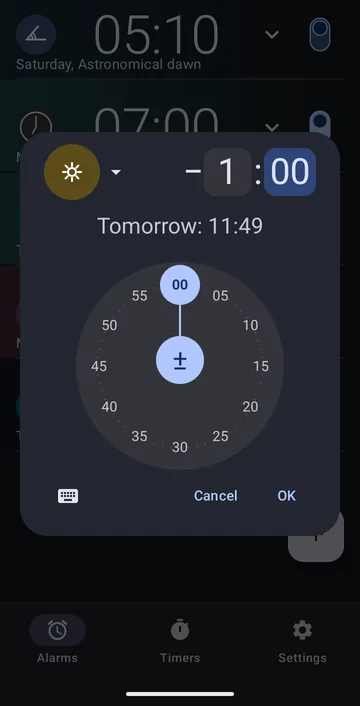
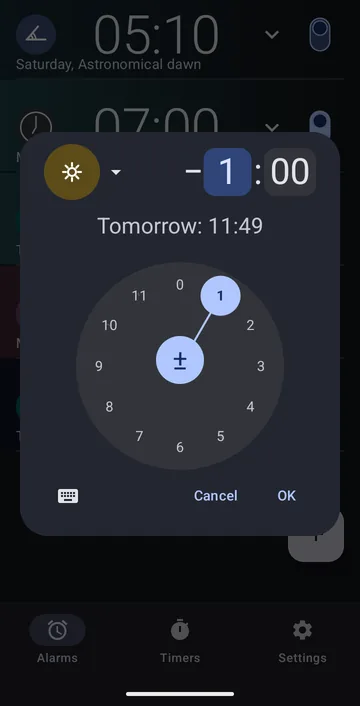
Le cadran de la capture montre enfin les heures, pas les minutes
Porteur, devant l'image : « on set la minute, qui est à 0, alors l'œil voit −1
en haut, et 0 dans le cercle, ce qui est juste, mais étrange ».

La scène se contredisait elle-même : son intention écrite annonçait « le cadran
des heures », mais le sélecteur d'Android avance automatiquement sur les
minutes dès que l'heure est saisie. L'étape faisait son travail, puis le widget
déplaçait le focus tout seul.

Le geste vient du porteur : « si on reclick sur le 1, on repasse sur le cadran
des heures, après avoir set ». Le relevé le prouve — « 1, Hours, selected » et
« 00, Minutes » là où il y avait « Minutes offset: 0 ».

Le sélecteur ne cherche NI la valeur NI la langue : l'app construit le champ
comme « <valeur>, <Hours traduit> » et n'ajoute « , selected » que s'il est
actif. Une étape qui aurait cherché « 1 » littéralement aurait cessé de
fonctionner en silence le jour où la scène passerait à deux heures.

Et l'ordre a été mesuré, pas supposé : placée après la bascule avant/après, la
sélection n'est pas reprise. La raison est écrite dans la scène, pour que
personne ne retire l'étape en la croyant superflue.

⚠ Aucun de nos contrôles ne pouvait voir ce défaut, et ce n'est pas un oubli.
Le contrat alt répond à « le texte décrit-il ce qui est dans le cadre ? » —
une question de correspondance. « L'image montre-t-elle un état qui veut dire
quelque chose ? » est une question de composition, et elle n'a aucune
vérité-terrain dans le relevé : « −1 » avec « 0 » est un état valide,
[…]

diff --git a/app/(en)/page.tsx b/app/(en)/page.tsx
@@ -219,7 +219,7 @@ export default function HomePage() {
                   <source srcSet="/assets/screenshots/alarm-picker--dark.webp 1x, /assets/screenshots/alarm-picker--dark@2x.webp 2x" media="(prefers-color-scheme: dark)" type="image/webp" />
                   <source srcSet="/assets/screenshots/alarm-picker.webp 1x, /assets/screenshots/alarm-picker@2x.webp 2x" type="image/webp" />
                   <source srcSet="/assets/screenshots/alarm-picker--dark.png" media="(prefers-color-scheme: dark)" />
-                  <img src="/assets/screenshots/alarm-picker.png" alt="Risetime's create-alarm dialog open over the alarm list: the Noon anchor chip, an offset of minus 1 hour and 00 minutes, and the line Tomorrow: 11:49. A circular minutes dial with 00 selected fills the lower half, with Cancel and OK beneath it." width="360" height="706" loading="lazy" />
+                  <img src="/assets/screenshots/alarm-picker.png" alt="Risetime's create-alarm dialog open over the alarm list: the Noon anchor chip, an offset of minus 1 hour and 00 minutes with the hours field selected, and the line Tomorrow: 11:49. A circular hours dial with 1 selected fills the lower half, with Cancel and OK beneath it." width="360" height="706" loading="lazy" />
                 </picture>
                 <figcaption>Pick your anchor and offset</figcaption>
               </figure>
